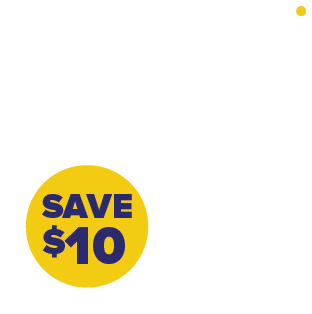
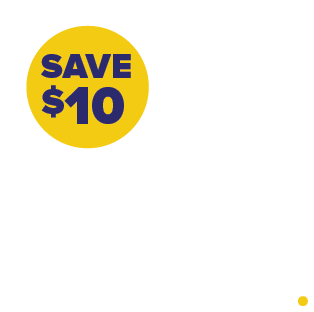
AR-updated images

diff --git a/RealDeal/Controllers/ViewController.swift b/RealDeal/Controllers/ViewController.swift
@@ -125,15 +125,15 @@ extension ViewController: ARSessionDelegate {
                     let offset: Float = 0.5
                     let z1 = position.z - sin(angles.y + Float.pi/2) * defaultDistance - sin(angles.y + Float.pi) * offset
                     let x1 = position.x + cos(angles.y + Float.pi/2) * defaultDistance + cos(angles.y + Float.pi) * offset
-                    
+                    let dealoffset: Float = 0.0
                     DispatchQueue.main.async {
                         switch offerMerchant {
                         case .walmart:
-                            self.add(.dealfree, position: SCNVector3(x1, -2 * offset, z1))
+                            self.add(.dealfree, position: SCNVector3(x1, dealoffset, z1))
                         case .bath:
-                            self.add(.deal30, position: SCNVector3(x1, -2 * offset, z1))
+                            self.add(.deal30, position: SCNVector3(x1, dealoffset, z1))
                         case .target:
-                            self.add(.deal10, position: SCNVector3(x1, -2 * offset, z1))
+                            self.add(.deal10, position: SCNVector3(x1, dealoffset, z1))
                         }
                     }
                 }
